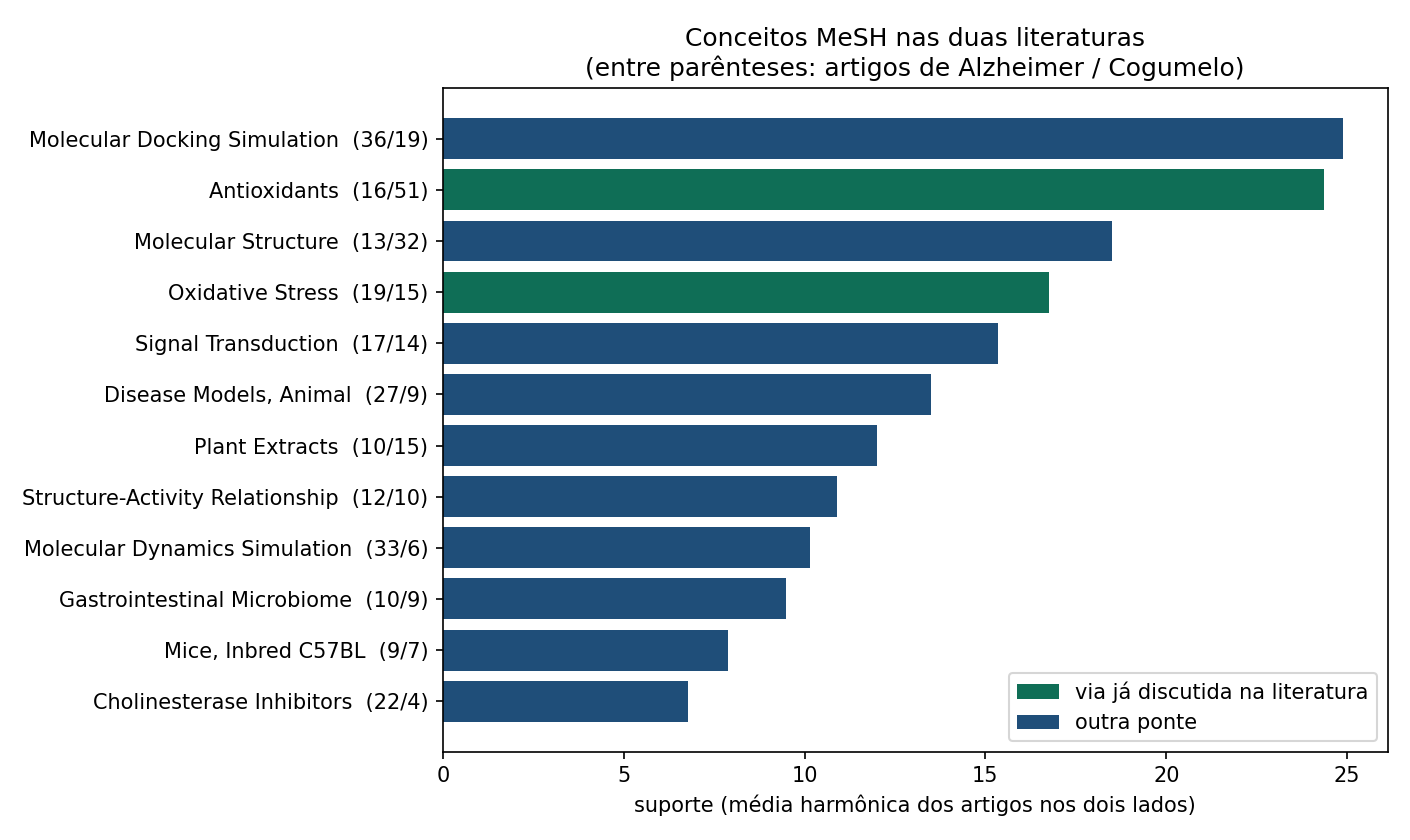
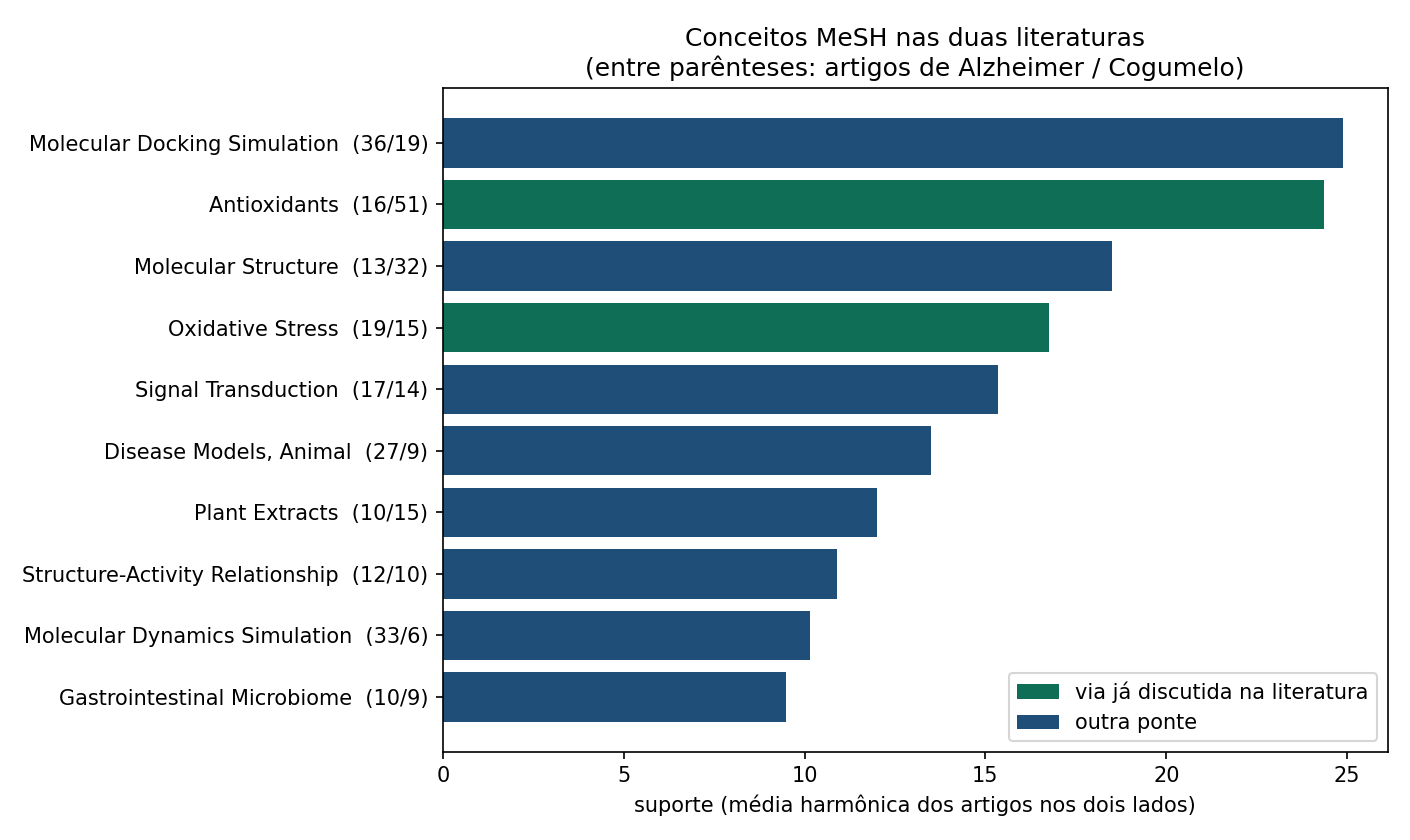
fix: update na selecao de treninamento do dados

diff --git a/separar_literaturas.py b/separar_literaturas.py
@@ -25,7 +25,7 @@ from sklearn.metrics import (
     roc_auc_score,
 )
 from scipy.stats import binomtest
-from sklearn.model_selection import StratifiedKFold, cross_validate, train_test_split
+from sklearn.model_selection import GridSearchCV, StratifiedKFold, cross_validate, train_test_split
 from sklearn.pipeline import make_pipeline
 
 from par import ANOS, NOME_A, NOME_C, ROTULO_C, SLUG, palavras_das_consultas
@@ -38,6 +38,10 @@ VALIDACAO_CRUZADA = RAIZ / "data" / f"validacao_cruzada_{SLUG}.csv"
 BOOTSTRAP = RAIZ / "data" / f"bootstrap_{SLUG}.csv"
 MCNEMAR = RAIZ / "data" / f"mcnemar_{SLUG}.csv"
 MATRIZES = RAIZ / "data" / f"matrizes_{SLUG}.csv"
+HIPER = RAIZ / "data" / f"hiperparametros_{SLUG}.csv"
+SEMENTES = RAIZ / "data" / f"sementes_{SLUG}.csv"
+
+SEMENTES_EXTRA = (42, 0, 1, 2, 3)
 
 SEMENTE = 42
 DOBRAS = 5
@@ -196,6 +200,74 @@ def teste_mcnemar(y_real, prev_a, prev_b):
     return {"b01": b01, "b10": b10, "p": p}
 
 
+def buscar_hiperparametros(textos_treino, y_treino):
+    """Grade pequena só no treino (5 dobras). O teste não escolhe C nem alpha."""
+    dobras = StratifiedKFold(n_splits=DOBRAS, shuffle=True, random_state=SEMENTE)
+    grades = (
+        (
+            "Regressão logística",
+            LogisticRegression(class_weight="balanced", max_iter=1000, random_state=SEMENTE),
+            {"logisticregression__C": [0.1, 1.0, 10.0]},
+        ),
+        (
+            "Naive Bayes",
+            MultinomialNB(),
+            {"multinomialnb__alpha": [0.1, 1.0, 10.0]},
+        ),
+        (
+            "SVM linear",
+            LinearSVC(class_weight="balanced", random_state=SEMENTE, max_iter=2000),
+            {"linearsvc__C": [0.1, 1.0, 10.0]},
+        ),
+    )
+    linhas = []
+    print("  busca de hiperparâmetros (F1, 5 dobras no treino):")
+    for nome, modelo, grade in grades:
+        busca = GridSearchCV(
+            make_pipeline(novo_vetorizador(), modelo),
+            grade,
+            scoring="f1",
+            cv=dobras,
+            n_jobs=1,
+        )
+        busca.fit(textos_treino, y_treino)
+        chave, valor = next(iter(busca.best_params_.items()))
+        print(f"    {nome}: {chave}={valor}  F1-CV={busca.best_score_:.3f}")
+        linhas.append(
+            {
+                "modelo": nome,
+                "parametro": chave,
+                "valor": valor,
+                "f1_cv": float(busca.best_score_),
+            }
+        )
+    pd.DataFrame(linhas).to_csv(HIPER, index=False)
+
+
+def repetir_sementes(corpus, y, textos, sementes=SEMENTES_EXTRA):
+    """F1 da logística sem palavras da consulta em várias partições 80/20."""
+    linhas = []
+    print("  F1 no teste em 5 sementes (RL, texto sem consulta):")
+    for semente in sementes:
+        idx_treino, idx_teste = train_test_split(
+            np.arange(len(corpus)),
+            test_size=0.2,
+            stratify=y,
+            random_state=semente,
+        )
+        _, _, _, prob_teste = treinar(
+            textos.iloc[idx_treino],
+            y[idx_treino],
+            textos.iloc[idx_teste],
+        )
+        f1 = metricas(y[idx_teste], prob_teste)["f1"]
+        linhas.append({"semente": semente, "f1_teste": f1})
+        print(f"    semente {semente}: F1={f1:.3f}")
+    vals = [row["f1_teste"] for row in linhas]
+    print(f"    média ± desvio: {np.mean(vals):.3f} ± {np.std(vals, ddof=1):.3f}")
+    pd.DataFrame(linhas).to_csv(SEMENTES, index=False)
+
+
 def termos_extremos(vetorizador, modelo, n=12):
     nomes = vetorizador.get_feature_names_out()
     coeficientes = modelo.coef_[0]
@@ -206,7 +278,7 @@ def termos_extremos(vetorizador, modelo, n=12):
 
 
 def desenhar(termos_negativos, termos_positivos):
-    fig, eixos = plt.subplots(1, 2, figsize=(10, 5.2))
+    fig, eixos = plt.subplots(1, 2, figsize=(9.2, 4.6), sharey=False)
     paineis = (
         (eixos[0], termos_negativos[::-1], NOME_NEGATIVO, "#1f4e79"),
         (eixos[1], termos_positivos[::-1], NOME_POSITIVO, "#0f6e56"),
@@ -214,13 +286,18 @@ def desenhar(termos_negativos, termos_positivos):
     for eixo, termos, titulo, cor in paineis:
         rotulos = [nome for nome, _ in termos]
         valores = [abs(peso) for _, peso in termos]
-        eixo.barh(rotulos, valores, color=cor)
-        eixo.set_title(titulo)
-        eixo.set_xlabel("peso absoluto na regressão logística")
-    fig.suptitle(f"Termos que separam {NOME_POSITIVO} e {NOME_NEGATIVO}, sem as palavras da consulta")
+        eixo.barh(rotulos, valores, color=cor, height=0.72)
+        eixo.set_title(titulo, fontsize=11)
+        eixo.set_xlabel("peso absoluto na regressão logística", fontsize=9)
+        eixo.tick_params(axis="y", labelsize=8)
+        eixo.tick_params(axis="x", labelsize=8)
+    fig.suptitle(
+        f"Termos que separam {NOME_POSITIVO} e {NOME_NEGATIVO}, sem as palavras da consulta",
+        fontsize=11,
+    )
     fig.tight_layout()
     FIGURA.parent.mkdir(parents=True, exist_ok=True)
-    fig.savefig(FIGURA, dpi=150)
+    fig.savefig(FIGURA, dpi=200, bbox_inches="tight")
     plt.close(fig)
 
 
@@ -383,6 +460,10 @@ def main():
         r = teste_mcnemar(y_teste, previsoes[a], previsoes[b])
         linhas_mcnemar.append({"modelo_a": a, "modelo_b": b, **r})
         print(f"  {a} vs {b}: b10={r['b10']} b01={r['b01']} p={r['p']:.4f}")
+
+    print("\nHiperparâmetros e estabilidade (texto sem palavras da consulta):")
+    buscar_hiperparametros(textos.iloc[indice_treino], y_treino)
+    repetir_sementes(corpus, y, textos)
 
     tabela = pd.DataFrame(linhas)
     METRICAS.parent.mkdir(parents=True, exist_ok=True)

diff --git a/pontes_mesh.py b/pontes_mesh.py
@@ -220,16 +220,73 @@ def validar(pontes, tabela, corpus, k=TOP_K):
     return resultado
 
 
-def classificar(termo, artigos_a, artigos_c, n_a, n_c):
+def e_stop(termo):
+    """Casa o descritor exato e qualificadores (ex.: Mice, Inbred C57BL)."""
     if termo in STOP:
+        return True
+    for s in STOP:
+        if termo.startswith(s + ",") or termo.startswith(s + " "):
+            return True
+    return False
+
+
+def classificar(termo, artigos_a, artigos_c, n_a, n_c, fracao=FRACAO_GENERICA):
+    if e_stop(termo):
         return "stop"
     if termo in MESH_DAS_CONSULTAS:
         return "nomeia a consulta"
-    if max(artigos_a / n_a, artigos_c / n_c) >= FRACAO_GENERICA:
+    if max(artigos_a / n_a, artigos_c / n_c) >= fracao:
         return "frequente demais"
     if min(artigos_a, artigos_c) < MINIMO_DE_CADA_LADO:
         return "evidencia fraca"
     return "ponte"
+
+
+def sensibilidade_corte(tabela, corpus, n_a, n_c, cortes=(0.15, 0.25, 0.40)):
+    """Refaz só o corte de cobertura, sem sobrescrever a validação principal (25%)."""
+    com_mesh = corpus.mesh.notna()
+    ambas_mask = (corpus.literatura == "ambas") & com_mesh
+    exclusivas_mask = corpus.literatura.isin([LADO_A, LADO_C]) & com_mesh
+    ambas = contar(corpus.loc[ambas_mask, "mesh"])
+    n_ambas = int(ambas_mask.sum())
+    exclusivas = contar(corpus.loc[exclusivas_mask, "mesh"])
+    n_exclusivas = int(exclusivas_mask.sum())
+    ambas_listas = _mesh_por_artigo(corpus.loc[ambas_mask, "mesh"])
+    exclusivas_listas = _mesh_por_artigo(corpus.loc[exclusivas_mask, "mesh"])
+
+    linhas = []
+    for fracao in cortes:
+        pontes = tabela.copy()
+        pontes["sit_corte"] = [
+            classificar(row.termo, row.artigos_a, row.artigos_c, n_a, n_c, fracao=fracao)
+            for row in tabela.itertuples(index=False)
+        ]
+        pontes = pontes[pontes.sit_corte == "ponte"].sort_values("suporte", ascending=False)
+        if pontes.empty or n_ambas == 0:
+            print(f"  corte {fracao:.0%}: 0 pontes")
+            linhas.append({"corte": fracao, "n_pontes": 0, "mediana": float("nan"), "presentes": 0})
+            continue
+        topo = list(pontes.head(TOP_K).termo)
+        valores = [enriquecimento(t, ambas, n_ambas, exclusivas, n_exclusivas) for t in topo]
+        presentes = sum(ambas[t] > 0 for t in topo)
+        med = median(valores)
+        _, p_perm = permutacao_mediana(topo, list(pontes.termo), ambas_listas, exclusivas_listas)
+        print(
+            f"  corte {fracao:.0%}: {len(pontes)} pontes  "
+            f"mediana E={med:.2f}  presentes={presentes}/{len(topo)}  p={p_perm:.3f}"
+        )
+        linhas.append(
+            {
+                "corte": fracao,
+                "n_pontes": int(len(pontes)),
+                "mediana": med,
+                "presentes": presentes,
+                "p_permutacao": p_perm,
+            }
+        )
+    saida = RAIZ / "data" / f"sensibilidade_corte_{SLUG}.csv"
+    pd.DataFrame(linhas).to_csv(saida, index=False)
+    print(f"  sensibilidade salva em {saida}")
 
 
 def main():
@@ -283,34 +340,44 @@ def main():
     print("\nValidação com os artigos que já citam os dois temas:")
     validar(pontes, tabela, corpus)
 
-    desenhar(pontes.head(12))
+    desenhar(pontes.head(TOP_K))
     print(f"\nTabela em {TABELA}")
     print(f"Figura em {FIGURA}")
+
+    print("\nSensibilidade do corte de cobertura:")
+    sensibilidade_corte(tabela, corpus, n_a, n_c)
 
 
 def desenhar(pontes):
     pontes = pontes.iloc[::-1]
     cores = ["#0f6e56" if classico else "#1f4e79" for classico in pontes.mecanismo_classico]
     rotulos = [
-        f"{termo}  ({artigos_a}/{artigos_c})"
+        f"{termo} ({artigos_a}/{artigos_c})"
         for termo, artigos_a, artigos_c in zip(
             pontes.termo, pontes.artigos_a, pontes.artigos_c
         )
     ]
-    fig, eixo = plt.subplots(figsize=(9.4, 5.6))
-    eixo.barh(rotulos, pontes.suporte, color=cores)
-    eixo.set_xlabel("suporte (média harmônica dos artigos nos dois lados)")
-    eixo.set_title(f"Conceitos MeSH nas duas literaturas\n(entre parênteses: artigos de {NOME_A} / {NOME_C})")
+    fig, eixo = plt.subplots(figsize=(8.6, 4.8))
+    eixo.barh(rotulos, pontes.suporte, color=cores, height=0.72)
+    eixo.set_xlabel("suporte (média harmônica dos artigos nos dois lados)", fontsize=9)
+    eixo.set_title(
+        f"Top-{len(pontes)} MeSH nas duas literaturas\n"
+        f"(entre parênteses: artigos de {NOME_A} / {NOME_C})",
+        fontsize=11,
+    )
+    eixo.tick_params(axis="y", labelsize=8)
+    eixo.tick_params(axis="x", labelsize=8)
     eixo.legend(
         handles=[
             Patch(facecolor="#0f6e56", label="via já discutida na literatura"),
             Patch(facecolor="#1f4e79", label="outra ponte"),
         ],
         loc="lower right",
+        fontsize=8,
     )
     fig.tight_layout()
     FIGURA.parent.mkdir(parents=True, exist_ok=True)
-    fig.savefig(FIGURA, dpi=150)
+    fig.savefig(FIGURA, dpi=200, bbox_inches="tight")
     plt.close(fig)
 
 

diff --git a/par.py b/par.py
@@ -28,7 +28,13 @@ PARES = {
         ),
         # "Mushroom body" = estrutura do cérebro de insetos, não um cogumelo.
         "EXCLUIR": '"mushroom body"[Title/Abstract] OR "mushroom bodies"[Title/Abstract]',
-        "PALAVRAS_EXTRAS": [r"erinaceus", r"lion'?s?\s*mane"],
+        "PALAVRAS_EXTRAS": [
+            r"erinaceus",
+            r"lion'?s?\s*mane",
+            r"ad",
+            r"lucidum",
+            r"ganoderma",
+        ],
         "MESH_DAS_CONSULTAS": {
             "Alzheimer Disease",
             "Mushrooms",
@@ -56,7 +62,7 @@ PARES = {
         "CONSULTA_A": '"Alzheimer"[Title/Abstract]',
         "CONSULTA_C": '"Parkinson"[Title/Abstract]',
         "EXCLUIR": "",
-        "PALAVRAS_EXTRAS": [r"parkinsonian", r"parkinsonism"],
+        "PALAVRAS_EXTRAS": [r"parkinsonian", r"parkinsonism", r"ad", r"pd"],
         "MESH_DAS_CONSULTAS": {
             "Alzheimer Disease",
             "Parkinson Disease",

diff --git a/README.md b/README.md
@@ -51,10 +51,10 @@ Regressão logística **sem** as palavras da consulta; mediana de enriquecimento
 | Par | F1 (teste) | Mediana E | Presentes em “ambas” |
 |---|---:|---:|---:|
 | Cogumelo–Alzheimer | 0,966 | 1,65 | 9/10 |
-| Parkinson–Alzheimer | 0,906 | 0,68 | 10/10 |
+| Parkinson–Alzheimer | 0,853 | 0,68 | 10/10 |
 | Couve–Anemia | 0,960 | 0,00 | 4/10 |
 
-No par principal, o filtro eleva o enriquecimento frente à frequência bruta (1,65 vs 1,08). No controle próximo o topo fica mais genérico; em couve–anemia a interseção MeSH é mínima e a validação fica instável — exatamente o tipo de viés discutido no artigo.
+No par principal, a mediana filtrada é 1,65 contra 1,08 da frequência bruta (ICs se sobrepõem; permutação $p=0,059$). No controle próximo o topo fica mais genérico; em couve–anemia a interseção MeSH é mínima e a validação fica instável — exatamente o tipo de viés discutido no artigo.
 
 <p align="center">
   <img src="figuras/pontes_mesh_cogumelo_alzheimer.png" width="720" alt="Pontes MeSH — cogumelo e Alzheimer">
